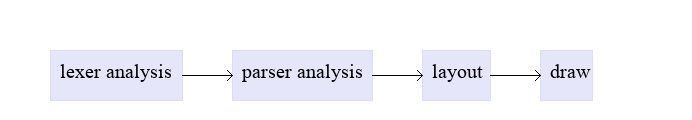
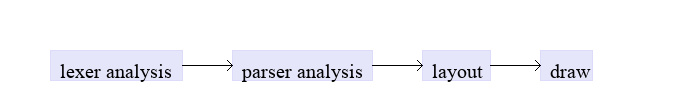
support multiple line graph

diff --git a/layout.py b/layout.py
@@ -56,26 +56,27 @@ class LRLayout():
         self.box_place = 50
         self.height = 30
         self.char_place = 8
-
+        self.level_interval = 50
         self.rectangles = self.calPosition()
         self.transitions = self.calTransitionPos()
+
 
 
     def calPosition(self):
         ans = []
 
         accumulative_x = self.x0
-        bottom_y = self.y0 + self.height + self.padding * 2
+        max_bottom_y = self.y0 + self.height + self.padding * 2
         for w, h, text in self.width_height:
             left_top_x = accumulative_x
             accumulative_x += (len(text) * self.char_place + self.padding * 2 )
             right_bottom_x = accumulative_x
             accumulative_x += self.box_place
 
-            left_top_y = self.x0
+            left_top_y = self.x0 + self.level_interval * h + self.height * h
 
-            right_bottom_y = bottom_y
-
+            right_bottom_y = left_top_y + self.height
+            max_bottom_y = right_bottom_y
             rec = Rectangle(left_top_x, left_top_y, right_bottom_x, right_bottom_y, text)
             ans.append(rec)
 
@@ -84,7 +85,7 @@ class LRLayout():
             rec.text_pos = (text_x, text_y)
 
         self.width = accumulative_x  + self.box_place
-        self.height = bottom_y + 20
+        self.height = max_bottom_y + 20
 
         return ans
 

diff --git a/engine.py b/engine.py
@@ -14,8 +14,10 @@ def interpret(input, file = None):
         layout = getLayout(graphType, pos)
         layoutList.append(layout)
 
-    ## here has a porblem 
-    im ,draw = createImage(layoutList[-1], file)
+    ## here has a porblem
+    maxwidth =  max([ layout.width for layout in layoutList])
+    maxheight = max([ layout.height for layout in layoutList])
+    im ,draw = createImage(maxwidth, maxheight, file)
 
     for layout in layoutList:
         startDraw(layout, draw)

diff --git a/drawer.py b/drawer.py
@@ -42,10 +42,10 @@ def drawRectangle(draw, rectangle):
 
     draw_text(draw, text_x, text_y, rectangle.text)
 
-def createImage(layout, file= None):
+def createImage(width, height, file= None):
     if file == None:
         file = "lrlayout.jpg"
-    width, height = layout.width, layout.height
+
     im = Image.new('RGB', (width, height), (255, 255, 255))
     draw = ImageDraw.Draw(im)
 
